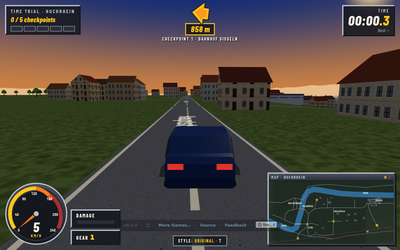
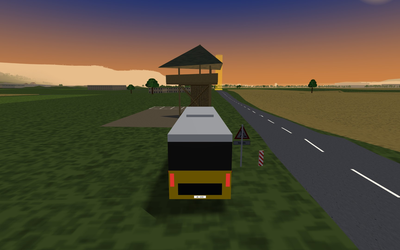
feat(hub): rename Map Madness card to Rhyflitzer, new image (#36)
The card now carries the game's current name, "Rhyflitzer – Map Madness",
in the img alt, data-title, aria-label and card title. The thumbnail and
lightbox image come from game-rhyflitzer docs/gallery/plattform-auto-1920.jpg,
centre-cropped to 16:10 (1280x800) and shrunk to 400x250 with make_icon().

Claude-Session: https://claude.ai/code/session_019LyVMgnVUboS6y7XftNUhL

diff --git a/games/index.html b/games/index.html
@@ -78,10 +78,10 @@
       </article>
 
       <article class="card" data-modes="solo" data-category="racing" data-added="2026-09-30" data-kids="true" data-retro="true" data-original-title="Midtown Madness" data-original-url="https://en.wikipedia.org/wiki/Midtown_Madness" data-original-screenshot="https://en.wikipedia.org/wiki/File:Midtown_madness_screenshot.jpg">
-        <img class="card__thumb" src="assets/game-rhyflitzer-icon.png" alt="Map Madness screenshot"
-             data-full="assets/game-rhyflitzer.png" data-title="Map Madness" tabindex="0" role="button" aria-label="Enlarge Map Madness screenshot">
+        <img class="card__thumb" src="assets/game-rhyflitzer-icon.png" alt="Rhyflitzer – Map Madness screenshot"
+             data-full="assets/game-rhyflitzer.png" data-title="Rhyflitzer – Map Madness" tabindex="0" role="button" aria-label="Enlarge Rhyflitzer – Map Madness screenshot">
         <div class="card__body">
-          <h2 class="card__title">Map Madness</h2>
+          <h2 class="card__title">Rhyflitzer – Map Madness</h2>
           <p class="card__desc">Open-world arcade racer on real geodata: checkpoint race through Sisseln, Stein and Bad Säckingen on the Hochrhein — the pedestrian-only wooden bridge is fair game. Early prototype.</p>
           <div class="card__badges">
             <span class="badge badge--solo">Solo</span>
